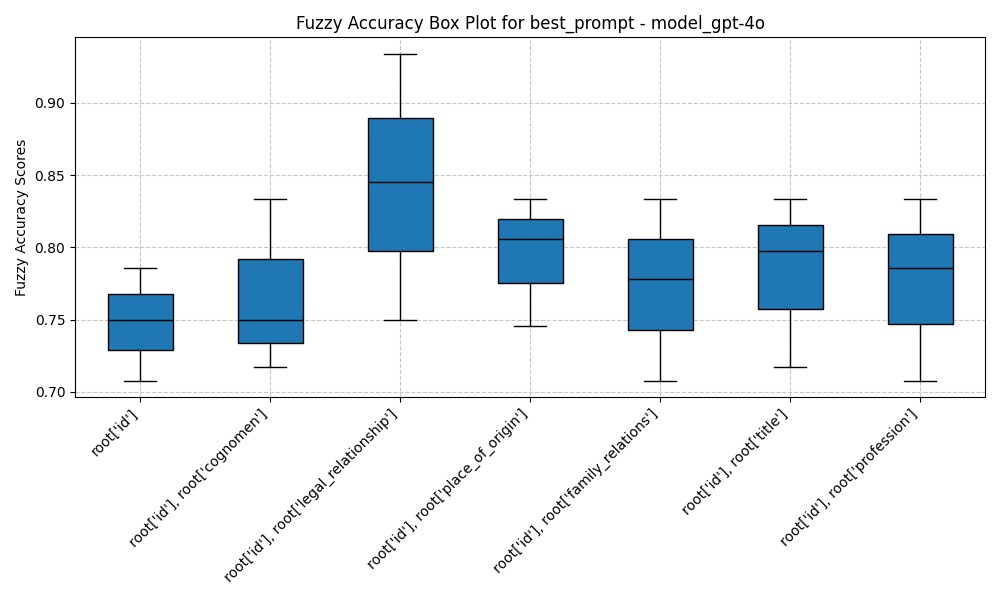
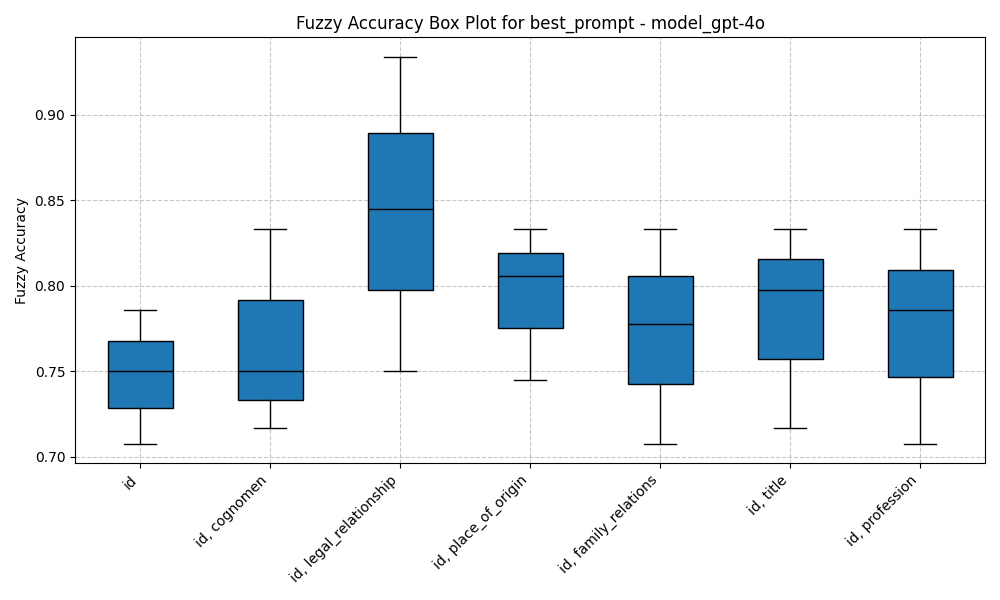
optimise prompt design. Refs #19.

diff --git a/visualisation/scores_error_types.py b/visualisation/scores_error_types.py
@@ -1,5 +1,6 @@
 import json
 import os
+import re
 from pathlib import Path
 import matplotlib.pyplot as plt
 import numpy as np
@@ -40,18 +41,24 @@ class ErrorTypePlot:
                                         if 'exclude_paths' not in doc or 'error' in doc:
                                             continue
                                         exclude_path = doc['exclude_paths']
+                                        extracted_attributes = ', '.join(
+                                            ', '.join(re.findall(r"\['(.*?)'\]",
+                                                                 path if isinstance(path, str) else ' '.join(
+                                                                     [p for sublist in path for p in sublist])))
+                                            for path in exclude_path
+                                        )
 
                                         # Process exact deepdiff comparison results
-                                        for comparison_result in doc['deepdiff_comparison_results']:
-                                            for key in ['values_changed', 'iterable_item_added',
-                                                        'iterable_item_removed', 'type_changes']:
-                                                error_counts[f'{exclude_path}_exact'][key] += comparison_result[key]
+                                        # for comparison_result in doc['deepdiff_comparison_results']:
+                                        #     for key in ['values_changed', 'iterable_item_added',
+                                        #                 'iterable_item_removed', 'type_changes']:
+                                        #        error_counts[f'{exclude_path}_exact'][key] += comparison_result[key]
 
                                         # Process fuzzy deepdiff comparison results
                                         for comparison_result in doc['deep_diff_comparison_results_fuzzy']:
                                             for key in ['values_changed', 'iterable_item_added',
                                                         'iterable_item_removed', 'type_changes']:
-                                                error_counts[f'{exclude_path}_fuzzy'][key] += comparison_result[key]
+                                                error_counts[f'{extracted_attributes}'][key] += comparison_result[key]
 
                                     all_error_counts[(prompt_type_folder, model_folder)] = error_counts
 
@@ -74,22 +81,22 @@ class ErrorTypePlot:
                 ax.bar(bar_positions[i] + j * bar_width, count, width=bar_width, color=colors[j],
                        label=error_type if i == 0 else "")
 
-        ax.set_xlabel('Exclusion Path and Type')
-        ax.set_ylabel('Count of Errors')
-        ax.set_title(f'Error Count for {model_name} in {prompt_type}')
+        ax.set_xlabel('Excluded Attributes')
+        ax.set_ylabel('Error Count')
+        ax.set_title(f'Error Count for {model_name} in {prompt_type} (only fuzzy accuracy)')
 
         ax.set_xticks(bar_positions + (num_error_types / 2 - 0.5) * bar_width)
         ax.set_xticklabels(list(error_counts.keys()), rotation=45, ha='right')
 
         handles, labels = ax.get_legend_handles_labels()
         by_label = dict(zip(labels, handles))
-        ax.legend(by_label.values(), by_label.keys(), title='Error Type')
+        ax.legend(by_label.values(), by_label.keys(), title='Error Type', loc='upper left', bbox_to_anchor=(1, 1))
 
         plt.tight_layout()
 
         output_dir = os.path.join('output_plots_errors', prompt_type)
         os.makedirs(output_dir, exist_ok=True)
-        plt.savefig(os.path.join(output_dir, f'{model_name}_error_counts.png'))
+        plt.savefig(os.path.join(output_dir, f'{model_name}_error_counts.png'), bbox_inches='tight')
 
         plt.close(fig)
 

diff --git a/visualisation/visualize_all.py b/visualisation/visualize_all.py
@@ -5,6 +5,8 @@ from dotenv import load_dotenv
 
 from visualisation.box_plot_fuzzy_score import BoxPlotFuzzyScore
 from visualisation.plot_accuracy_json_size import JsonSizeScatterPlot
+from visualisation.plot_mistral_metrics import PlotMistralMetrics
+from visualisation.plot_open_ai_metrics import PlotOpenAIMetrics
 from visualisation.scores_error_types import ErrorTypePlot
 from visualisation.scores_for_exclude_paths import ExcludePathsPlot
 from visualisation.scores_overall_accuracy import OverallAccuracy
@@ -72,9 +74,39 @@ def plot_box_plot():
     box_plot_fuzzy_score.plot_fuzzy_scores_by_prompt_and_model(all_fuzzy_scores)
 
 
+def plot_openai_results():
+    load_dotenv()
+    base_dir = os.getenv('PROJECT_BASE_DIR')
+    relative_path = 'fine_tuning_files/openai/fine_tuning_evaluation'
+    root_path = os.path.join(base_dir, relative_path)
+    plot_openai_metrics = PlotOpenAIMetrics()
+
+    extracted_data = plot_openai_metrics.extract_metrics_data(root_path)
+
+    for model_name, df, file_name in extracted_data:
+        plot_output_dir = os.path.join(base_dir, 'visualisation', 'openai_ft_plots')
+        plot_openai_metrics.plot_metrics(model_name, df, plot_output_dir, file_name)
+
+
+def plot_mistral_results():
+    load_dotenv()
+    base_dir = os.getenv('PROJECT_BASE_DIR')
+    relative_path = 'fine_tuning_files/mistral/fine_tuning_evaluation'
+    root_path = os.path.join(base_dir, relative_path)
+    plot_mistral_metrics = PlotMistralMetrics()
+
+    extracted_data = plot_mistral_metrics.extract_metrics_data(root_path)
+
+    for model_name, checkpoints, file_name in extracted_data:
+        plot_output_dir = os.path.join(base_dir, 'visualisation', 'mistral_ft_plots')
+        plot_mistral_metrics.plot_metrics(model_name, checkpoints, plot_output_dir, file_name)
+
+
 if __name__ == '__main__':
     plot_overall_accuracy()
     plot_error_types()
     plot_exclude_paths()
     plot_json_size_vs_accuracy()
     plot_box_plot()
+    plot_openai_results()
+    plot_mistral_results()

diff --git a/visualisation/scores_for_exclude_paths.py b/visualisation/scores_for_exclude_paths.py
@@ -1,5 +1,6 @@
 import json
 import os
+import re
 from pathlib import Path
 
 import matplotlib.pyplot as plt
@@ -51,26 +52,29 @@ class ExcludePathsPlot:
 
     @staticmethod
     def plot_scores(prompt_type, model_name, exclude_paths, exact_scores, fuzzy_scores):
+        extracted_attributes = [
+            ', '.join([attr for path in paths.split(',') for attr in re.findall(r"\['(.*?)']", path)])
+            for paths in exclude_paths
+        ]
         x = np.arange(len(exclude_paths))
         bar_width = 0.35
 
         fig, ax = plt.subplots()
-        ax.bar(x - bar_width / 2, exact_scores, bar_width, label='Exact Score')
-        ax.bar(x + bar_width / 2, fuzzy_scores, bar_width, label='Fuzzy Score')
+        ax.bar(x - bar_width / 2, exact_scores, bar_width, label='Exact Accuracy')
+        ax.bar(x + bar_width / 2, fuzzy_scores, bar_width, label='Fuzzy Accuracy')
 
-        ax.set_xlabel('Exclude Paths')
-        ax.set_ylabel('Scores')
-        ax.set_title(f'Exact vs Fuzzy Scores for {model_name} in {prompt_type}')
+        ax.set_xlabel('Excluded Attributes')
+        ax.set_ylabel('Accuracy')
+        ax.set_title(f'Exact vs Fuzzy Accuracy for {model_name} in {prompt_type}')
         ax.set_xticks(x)
-        ax.set_xticklabels(exclude_paths, rotation=45, ha='right')
-        ax.legend()
+        ax.set_xticklabels(extracted_attributes, rotation=45, ha='right')
+        ax.legend(loc='upper left', bbox_to_anchor=(1, 1))
 
         plt.tight_layout()
-        # plt.show()
 
-        output_dir = os.path.join('output_plots', prompt_type)
+        output_dir = os.path.join('output_plots_attributes_excluded', prompt_type)
         os.makedirs(output_dir, exist_ok=True)
-        plt.savefig(os.path.join(output_dir, f'{model_name}_scores.png'))
+        plt.savefig(os.path.join(output_dir, f'{model_name}_scores.png'), bbox_inches='tight')
 
         plt.close()
 

diff --git a/visualisation/scores_overall_accuracy.py b/visualisation/scores_overall_accuracy.py
@@ -53,20 +53,20 @@ class OverallAccuracy:
         x = np.arange(len(model_names))
         bar_width = 0.35
         fig, ax = plt.subplots()
-        ax.bar(x - bar_width / 2, exact_scores, bar_width, label='Exact Score')
-        ax.bar(x + bar_width / 2, fuzzy_scores, bar_width, label='Fuzzy Score')
+        ax.bar(x - bar_width / 2, exact_scores, bar_width, label='Exact Accuracy')
+        ax.bar(x + bar_width / 2, fuzzy_scores, bar_width, label='Fuzzy Accuracy')
         ax.set_xlabel('Models')
-        ax.set_ylabel('Scores')
-        ax.set_title('Exact vs Fuzzy Scores by Model (Excluding root["id"])')
+        ax.set_ylabel('Accuracy')
+        ax.set_title('Exact vs Fuzzy Accuracy by Model (Excluding id)')
         ax.set_xticks(x)
         ax.set_xticklabels(model_names, rotation=45, ha='right')
-        ax.legend()
+        ax.legend(loc='upper left', bbox_to_anchor=(1, 1))
 
         plt.tight_layout()
         output_dir = os.path.join('output_overall_plots')
         if not os.path.exists(output_dir):
             os.makedirs(output_dir, exist_ok=True)
-        plt.savefig(os.path.join(output_dir, f'overall_scores_{prompt_name}.png'))
+        plt.savefig(os.path.join(output_dir, f'overall_scores_{prompt_name}.png'), bbox_inches='tight')
 
 
 if __name__ == '__main__':
@@ -82,7 +82,3 @@ if __name__ == '__main__':
         model_names, exact_scores, fuzzy_scores = overall_accuracy.extract_overall_accuracy(models_dir)
         overall_accuracy.plot_overall_accuracy(model_names, exact_scores, fuzzy_scores, prompt_dir_name)
 
-    # prompt_name = 'best_prompt'
-    # models_dir = os.path.join(base_dir, 'evaluation_results', 'results', prompt_name)
-    # model_names, exact_scores, fuzzy_scores = overall_accuracy.extract_overall_accuracy(models_dir)
-    # overall_accuracy.plot_overall_accuracy(model_names, exact_scores, fuzzy_scores, prompt_name)

diff --git a/visualisation/box_plot_fuzzy_score.py b/visualisation/box_plot_fuzzy_score.py
@@ -1,5 +1,6 @@
 import json
 import os
+import re
 from collections import defaultdict
 from pathlib import Path
 
@@ -56,18 +57,20 @@ class BoxPlotFuzzyScore:
             scores_by_prompt_and_model (dict): A nested dictionary where the first key is the prompt type,
                                                the second key is the model name, and the value is a dictionary
                                                with exclude paths as keys and fuzzy accuracy scores as values.
-            output_directory (str): The directory where the plots will be saved.
         """
         for prompt_type, models_scores in scores_by_prompt_and_model.items():
             for model_name, scores_by_exclude_paths in models_scores.items():
-                labels = [', '.join(paths) if paths else 'No Excludes' for paths in scores_by_exclude_paths.keys()]
+                labels = [
+                    ', '.join([attr for path in paths for attr in re.findall(r"\['(.*?)'\]", path)])
+                    for paths in scores_by_exclude_paths.keys()
+                ]
                 data = list(scores_by_exclude_paths.values())
 
                 plt.figure(figsize=(10, 6))
                 plt.boxplot(data, patch_artist=True, medianprops=dict(color='black'))
                 plt.xticks(ticks=range(1, len(labels) + 1), labels=labels, rotation=45, ha='right')
                 plt.title(f'Fuzzy Accuracy Box Plot for {prompt_type} - {model_name}')
-                plt.ylabel('Fuzzy Accuracy Scores')
+                plt.ylabel('Fuzzy Accuracy')
                 plt.grid(True, linestyle='--', alpha=0.7)
                 plt.tight_layout()
 
